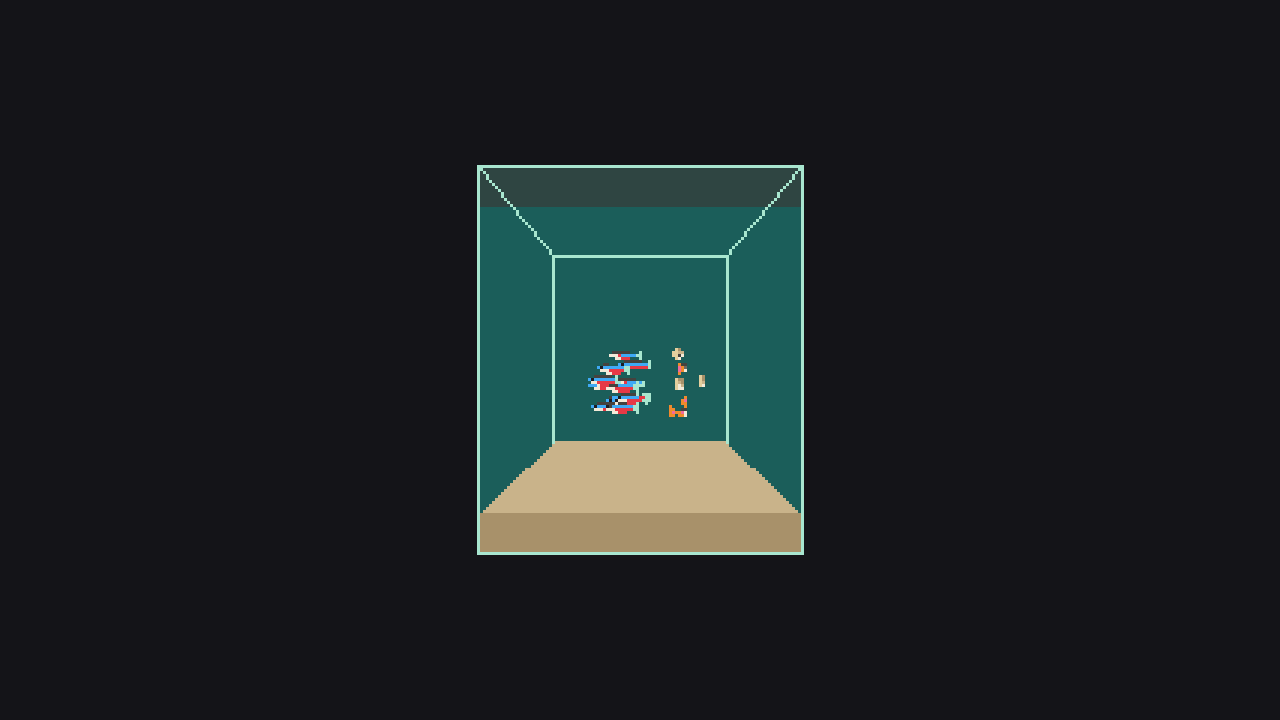
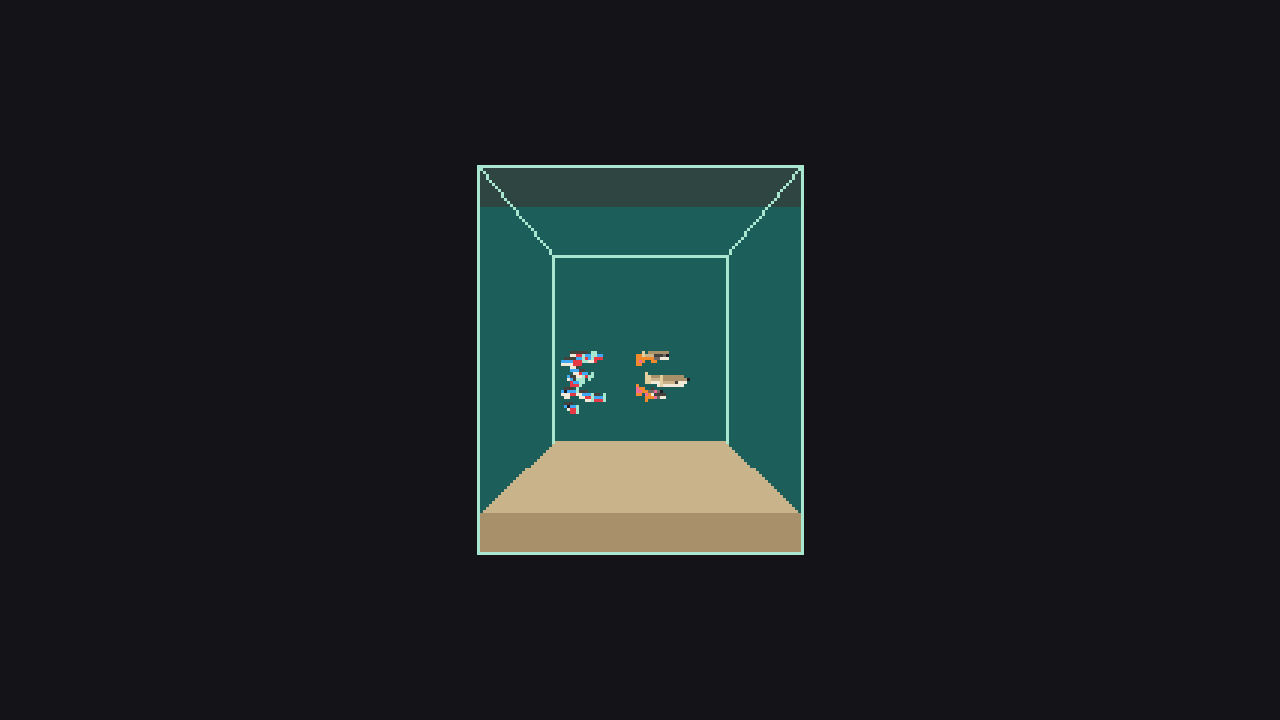
captures(c013): dev, série finale

Changed region(s): [[0.4375, 0.4889, 0.5625, 0.5806]]

diff --git a/captures/c013/dev/SOURCE.md b/captures/c013/dev/SOURCE.md
@@ -2,4 +2,4 @@
 
 - `*.png` (5 angles + sans filtre + `trajectoires-top.png`) : `CAPTURE_DIR=… npm run captures`, graine 42, 30 s (tracé : 60 s).
 - `trajectoires-top-avant.png` : même tracé avec les réglages de `main` (cycle 12), pour comparaison.
-- Rendu inchangé ; les poissons sont à d'autres positions (réglage `wallMargin` / `AVOID_ZONE`, issue #43). `bottom.png` identique au cycle 12.
+- Rendu inchangé (naissance identique au cycle 12 à t = 0) ; les poissons sont à d'autres positions (réglage `wallMargin` / `AVOID_ZONE`, issue #43). `bottom.png` identique au cycle 12.
